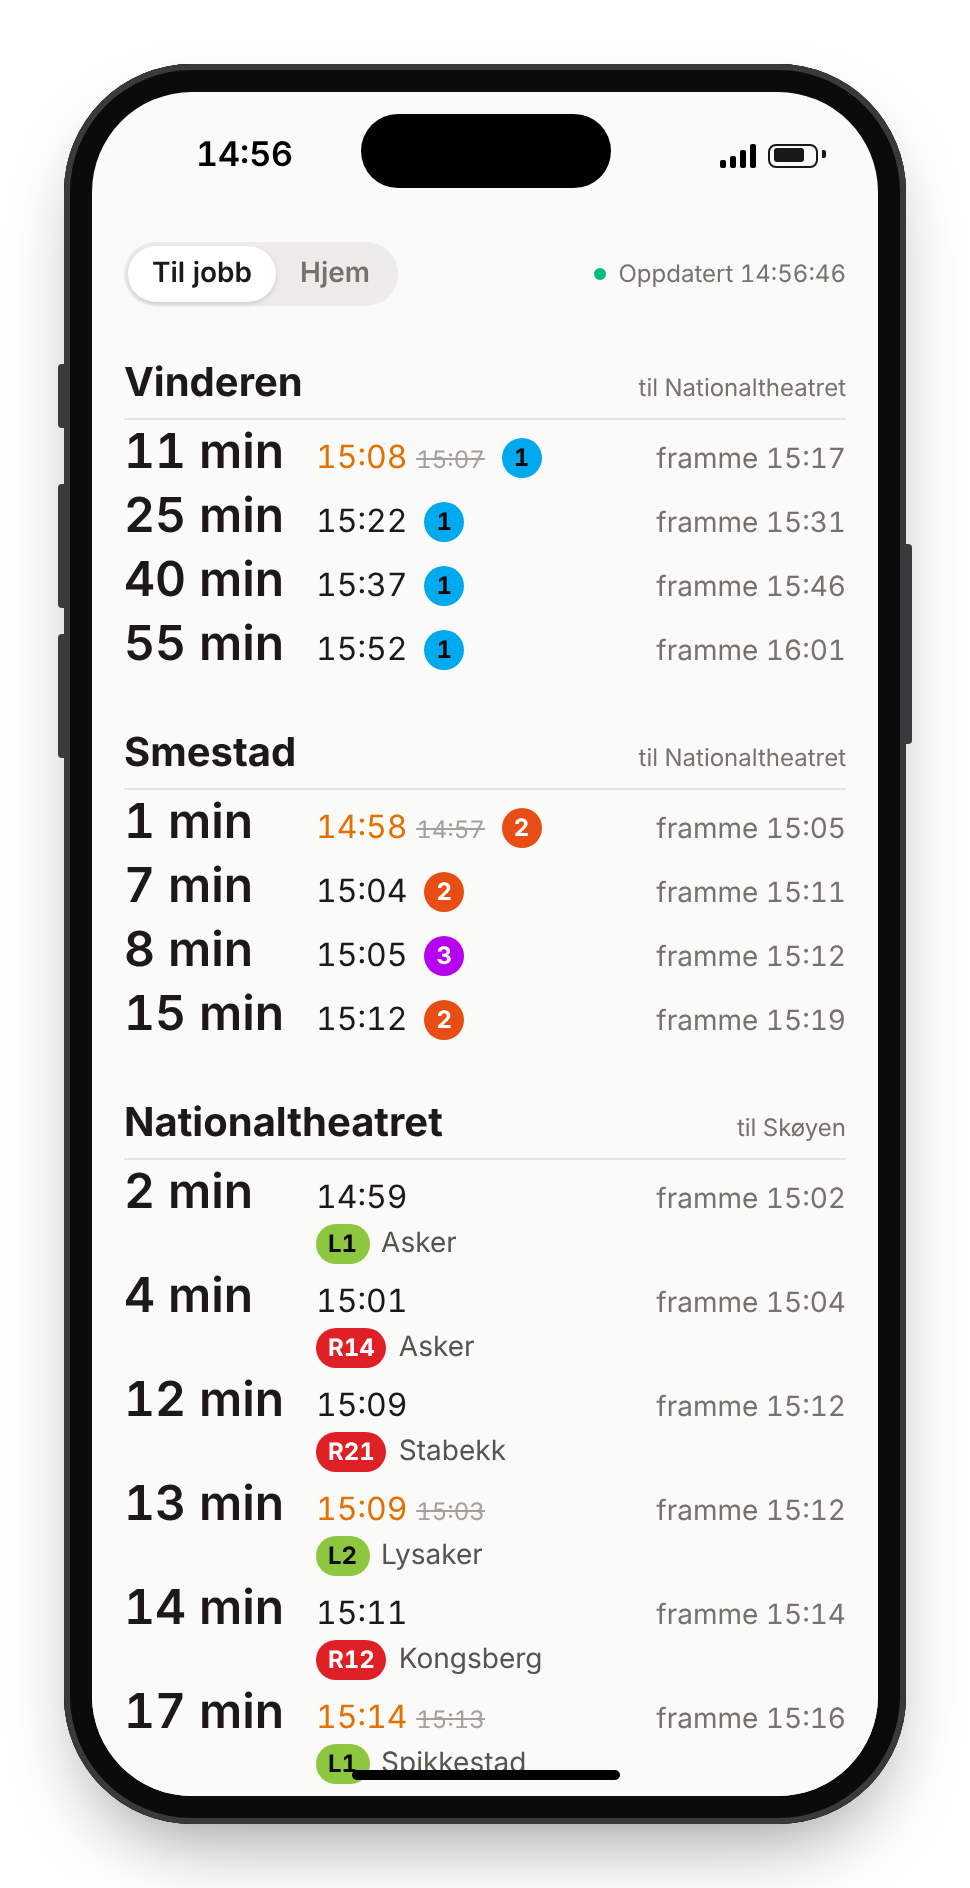
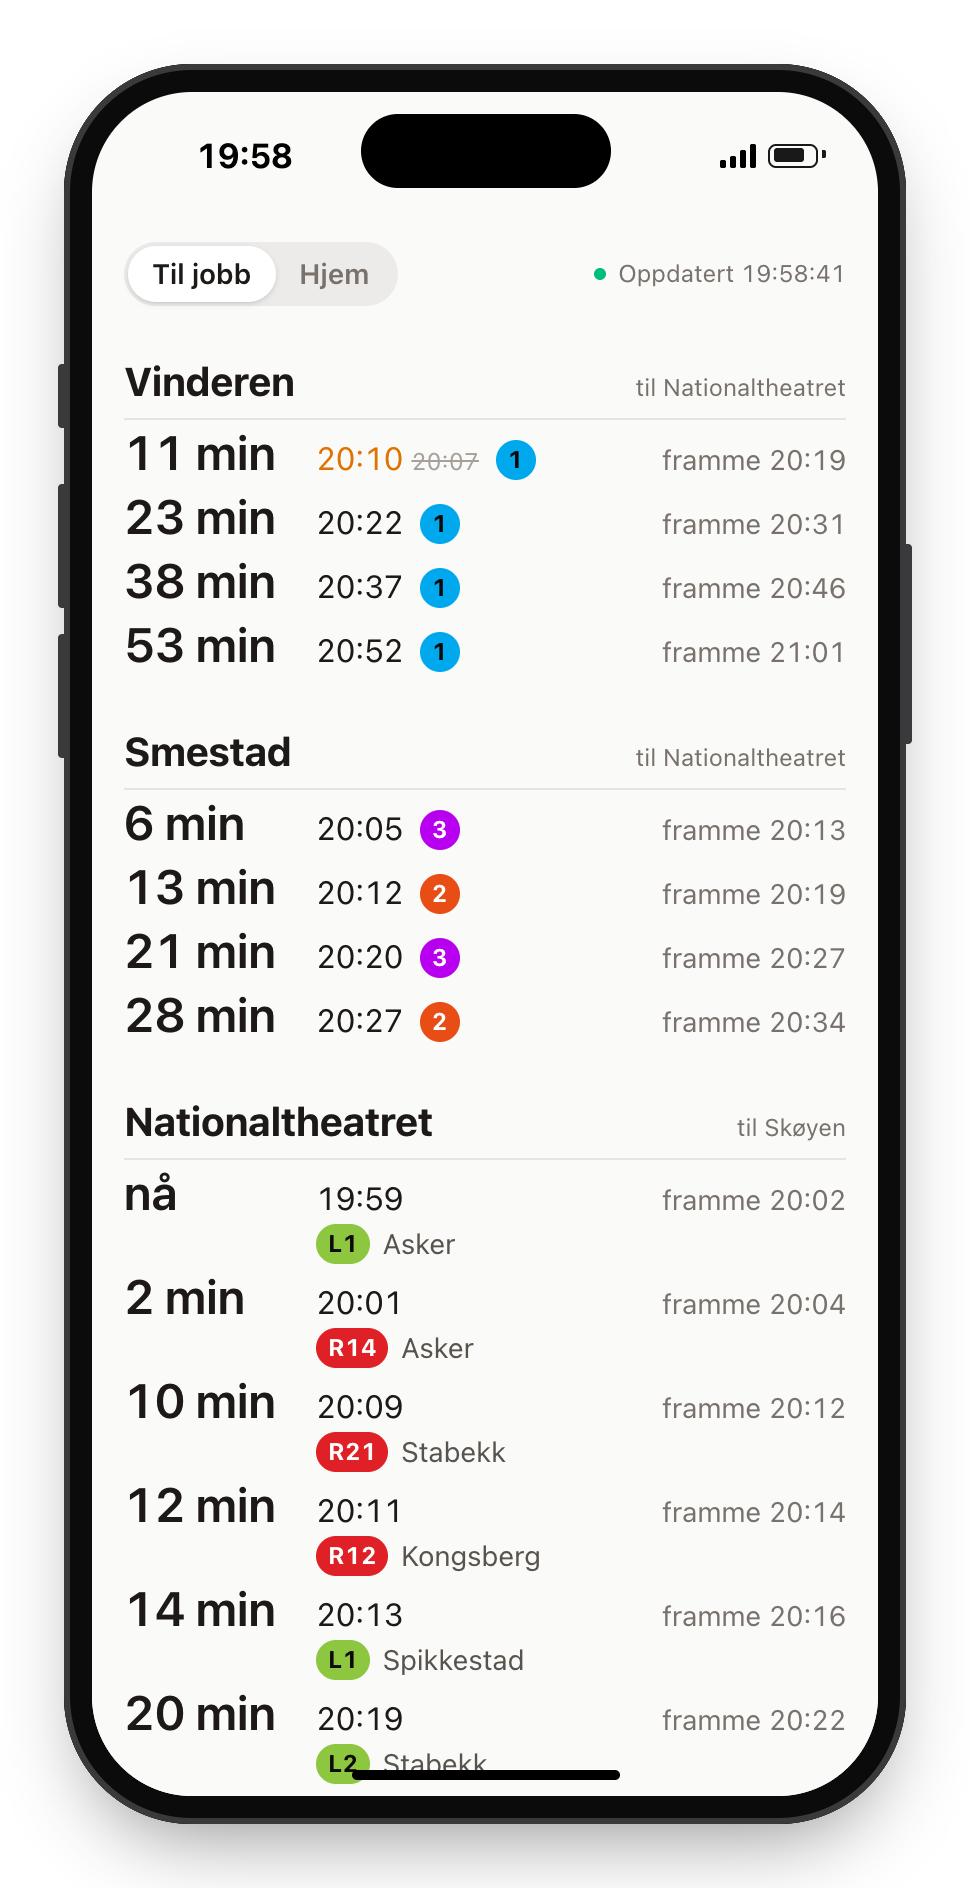
feat: let one board go to several destinations
A station is one board, even when more than one place will do. `to` can
now be a list: departures to any of them share the board, sorted by
departure, each with its arrival at the first of them it stops at. The
heading reads "til A / B".

The example config puts the two metro boards home from Nationaltheatret
into one, and the README text and screenshots are updated.

diff --git a/src/board.test.ts b/src/board.test.ts
@@ -39,7 +39,7 @@ describe("parseCalls", () => {
         call("2026-11-17T07:40:00+01:00", [next(OTHER, "2026-11-17T07:42:00+01:00")]), // wrong direction
       ],
       HERE,
-      DEST,
+      [DEST],
     );
     expect(deps).toHaveLength(1);
     expect(deps[0].destination).toBe("Sentrum");
@@ -51,7 +51,7 @@ describe("parseCalls", () => {
     const deps = parseCalls(
       [call("2026-11-17T16:03:00+01:00", [next({ id: DEST, parent: null }, "2026-11-17T16:09:00+01:00")])],
       HERE,
-      DEST,
+      [DEST],
     );
     expect(deps).toHaveLength(1);
   });
@@ -66,7 +66,7 @@ describe("parseCalls", () => {
         }),
       ],
       HERE,
-      DEST,
+      [DEST],
     );
     expect(deps.map((d) => [clock(d.expected), d.cancelled])).toEqual([["16:07", true]]);
   });
@@ -78,7 +78,7 @@ describe("parseCalls", () => {
         call("2026-11-17T07:46:00+01:00", [next(DEST_METRO, "2026-11-17T07:57:00+01:00")]),
       ],
       HERE,
-      DEST,
+      [DEST],
     );
     expect(deps.map((d) => clock(d.expected))).toEqual(["07:46", "07:50"]);
   });
@@ -97,7 +97,7 @@ describe("parseCalls", () => {
         call("2026-11-17T08:06:00+01:00", [next(between, "2026-11-17T08:09:00+01:00")]), // ends before
       ],
       HERE,
-      WORK,
+      [WORK],
     );
     expect(deps.map((d) => [d.line, d.destination, clock(d.expected), clock(d.arrival)])).toEqual([
       ["L1", "Vestby", "08:04", "08:11"],
@@ -115,9 +115,32 @@ describe("parseCalls", () => {
         call("2026-11-17T15:29:00+01:00", [next(DEST_METRO, "2026-11-17T15:40:00+01:00")], ring),
       ],
       HERE,
-      DEST,
+      [DEST],
     );
     expect(deps.map((d) => [clock(d.expected), clock(d.arrival)])).toEqual([["15:29", "15:40"]]);
+  });
+
+  it("with several destinations: departures to any of them, in one list, arriving at the first it stops at", () => {
+    const a = { id: "NSR:StopPlace:1100", parent: null };
+    const b = { id: "NSR:StopPlace:1200", parent: null };
+    const four = { serviceJourney: { id: "four", line: { publicCode: "4" } } };
+    const deps = parseCalls(
+      [
+        call("2026-11-17T17:03:00+01:00", [next(OTHER, "2026-11-17T17:10:00+01:00"), next(b, "2026-11-17T17:19:00+01:00")], four),
+        call("2026-11-17T16:59:00+01:00", [next(a, "2026-11-17T17:10:00+01:00")]),
+        call("2026-11-17T17:01:00+01:00", [next(OTHER, "2026-11-17T17:04:00+01:00")]), // neither
+        call("2026-11-17T17:05:00+01:00", [next(a, "2026-11-17T17:12:00+01:00", { forAlighting: false }), next(b, "2026-11-17T17:20:00+01:00")]), // skips a
+        call("2026-11-17T17:07:00+01:00", [next(a, "2026-11-17T17:15:00+01:00"), next(b, "2026-11-17T17:25:00+01:00")]), // both
+      ],
+      HERE,
+      [a.id, b.id],
+    );
+    expect(deps.map((d) => [clock(d.expected), d.line, clock(d.arrival)])).toEqual([
+      ["16:59", "5", "17:10"],
+      ["17:03", "4", "17:19"],
+      ["17:05", "5", "17:20"],
+      ["17:07", "5", "17:15"],
+    ]);
   });
 });
 
@@ -212,6 +235,12 @@ describe("buildQuery", () => {
     expect(q).toContain(`q0: stopPlace(id: "NSR:StopPlace:3000") { estimatedCalls(numberOfDepartures: 100, numberOfDeparturesPerLineAndDestinationDisplay: ${PER_LINE},`);
     expect(q).toContain(`q1: stopPlace(id: "NSR:StopPlace:4000") { estimatedCalls(numberOfDepartures: 20,`);
   });
+
+  it("always gives a board its destinations as a list", () => {
+    expect(stops[0].to).toEqual([{ name: "C", stopId: DEST }]);
+    const [both] = toStops([{ ...stops[0], to: [{ name: "C", stopId: DEST }, { name: "D", stopId: "NSR:StopPlace:5000" }] }]);
+    expect(both.to.map((t) => t.name)).toEqual(["C", "D"]);
+  });
 });
 
 describe("validateConfig", () => {
@@ -229,6 +258,13 @@ describe("validateConfig", () => {
     expect(() => validateConfig({ ...valid, stops: [{ ...valid.stops[0], stopId: "123" }] })).toThrow("stops[0].stopId");
     expect(() => validateConfig({ ...valid, stops: [{ ...valid.stops[0], mode: "bus" }] })).toThrow("stops[0].mode");
     expect(() => validateConfig({ ...valid, stops: [{ ...valid.stops[0], to: undefined }] })).toThrow("stops[0].to");
+    expect(() => validateConfig({ ...valid, stops: [{ ...valid.stops[0], to: [] }] })).toThrow("stops[0].to");
+    expect(() => validateConfig({ ...valid, stops: [{ ...valid.stops[0], to: [{ name: "B", stopId: "1" }] }] })).toThrow("stops[0].to");
+  });
+
+  it("accepts a list of destinations", () => {
+    const to = [{ name: "Sentrum", stopId: DEST }, { name: "B", stopId: "NSR:StopPlace:1100" }];
+    expect(validateConfig({ ...valid, stops: [{ ...valid.stops[0], to }] }).stops[0].to).toEqual(to);
   });
 });
 

diff --git a/src/entur.ts b/src/entur.ts
@@ -57,7 +57,8 @@ export function toStops(stops: StopConfig[]): Stop[] {
   return stops.map((s, i) => {
     const same = JSON.stringify([s.stopId, s.mode, [...(s.excludeAuthorities ?? [])].sort()]);
     if (!aliases.has(same)) aliases.set(same, `q${aliases.size}`);
-    return { ...s, key: `s${i}`, query: aliases.get(same)!, fetch: FETCH[s.mode] };
+    const to = Array.isArray(s.to) ? s.to : [s.to];
+    return { ...s, to, key: `s${i}`, query: aliases.get(same)!, fetch: FETCH[s.mode] };
   });
 }
 
@@ -86,18 +87,20 @@ function isAt(call: RawNextCall, stopId: string): boolean {
 }
 
 /**
- * Keeps only departures from `fromId` that later call at `toId` (= the right direction).
- * A departure that comes back to `fromId` before reaching `toId` (a metro going round the ring)
- * is left out: the same train is listed again for its next pass, and gets there just as soon.
+ * Keeps only departures from `fromId` that later stop at one of `toIds` (= the right direction),
+ * with the arrival at the first of them. A departure that comes back to `fromId` before that
+ * (a metro going round the ring) is left out: the same train is listed again for its next
+ * pass, and gets there just as soon.
  */
-export function parseCalls(calls: RawCall[], fromId: string, toId: string): Departure[] {
+export function parseCalls(calls: RawCall[], fromId: string, toIds: string[]): Departure[] {
   const out: Departure[] = [];
   for (const c of calls) {
     const next = c.serviceJourneyEstimatedCalls?.next ?? [];
-    const dest = next.find((n) => isAt(n, toId) || isAt(n, fromId));
-    if (!dest || !isAt(dest, toId)) continue;
-    // Running, but skips the destination: not relevant.
-    if (!c.cancellation && (dest.cancellation || !dest.forAlighting)) continue;
+    const back = next.findIndex((n) => isAt(n, fromId));
+    const ahead = (back === -1 ? next : next.slice(0, back)).filter((n) => toIds.some((id) => isAt(n, id)));
+    // Running: the first destination it actually stops at, if any. Cancelled: shown anyway.
+    const dest = c.cancellation ? ahead[0] : ahead.find((n) => !n.cancellation && n.forAlighting);
+    if (!dest) continue;
     out.push({
       id: `${c.serviceJourney.id}@${c.date}`,
       line: c.serviceJourney.line.publicCode ?? "",
@@ -125,6 +128,9 @@ export async function fetchDepartures(stops: Stop[], signal: AbortSignal): Promi
   };
   if (json.errors?.length || !json.data) throw new Error(json.errors?.[0]?.message ?? "Empty response");
   const out: Record<string, Departure[]> = {};
-  for (const s of stops) out[s.key] = parseCalls(json.data[s.query]?.estimatedCalls ?? [], s.stopId, s.to.stopId);
+  for (const s of stops) {
+    const calls = json.data[s.query]?.estimatedCalls ?? [];
+    out[s.key] = parseCalls(calls, s.stopId, s.to.map((t) => t.stopId));
+  }
   return out;
 }

diff --git a/src/config-schema.ts b/src/config-schema.ts
@@ -17,8 +17,12 @@ export type StopConfig = {
    * work), "work" – from work. Only the trip you're on is shown.
    */
   group: Group;
-  /** Only departures that call here later are shown, with the arrival time here. */
-  to: Target;
+  /**
+   * Only departures that call here later are shown, with the arrival time here. Can be a list
+   * when more than one place will do: departures to any of them share the board, each with its
+   * arrival at the first of them it stops at.
+   */
+  to: Target | Target[];
   /** Operators to leave out, e.g. ["FLT:Authority:FLT"] (Flytoget). */
   excludeAuthorities?: string[];
 };
@@ -47,7 +51,10 @@ export function validateConfig(value: unknown): AppConfig {
     if (!STOP_ID.test(s.stopId ?? "")) fail(`stops[${i}].stopId must look like NSR:StopPlace:123`);
     if (s.mode !== "metro" && s.mode !== "rail") fail(`stops[${i}].mode must be "metro" or "rail"`);
     if (!GROUPS.includes(s.group)) fail(`stops[${i}].group must be "home" or "work"`);
-    if (!s.to?.name || !STOP_ID.test(s.to?.stopId ?? "")) fail(`stops[${i}].to needs name and stopId`);
+    const to = Array.isArray(s.to) ? s.to : [s.to];
+    if (to.length === 0 || to.some((t) => !t?.name || !STOP_ID.test(t?.stopId ?? ""))) {
+      fail(`stops[${i}].to needs name and stopId (or a list of them)`);
+    }
   });
   if (!Array.isArray(c.places)) fail("places must be a list");
   c.places.forEach((p, i) => {

diff --git a/src/config.ts b/src/config.ts
@@ -1,4 +1,4 @@
-import type { AppConfig, StopConfig } from "./config-schema";
+import type { AppConfig, StopConfig, Target } from "./config-schema";
 import { toStops } from "./entur";
 
 export type { Group } from "./config-schema";
@@ -7,7 +7,9 @@ export type { Group } from "./config-schema";
 declare const __BGS_CONFIG__: AppConfig;
 const config = __BGS_CONFIG__;
 
-export type Stop = StopConfig & {
+export type Stop = Omit<StopConfig, "to"> & {
+  /** Where departures must go, always as a list. */
+  to: Target[];
   /** Identifies the board. */
   key: string;
   /** GraphQL alias. Stops that need the same departures (same stop place and filters) share one. */

diff --git a/src/view.ts b/src/view.ts
@@ -76,7 +76,7 @@ function board(stop: Stop, deps: Departure[] | undefined, now: number): string {
   return `<section>
     <h2 class="flex items-baseline justify-between border-b border-stone-200 pb-1 dark:border-stone-800">
       <span class="text-xl font-bold">${esc(stop.name)}</span>
-      <span class="text-xs text-stone-500">til ${esc(stop.to.name)}</span>
+      <span class="text-xs text-stone-500">til ${esc(stop.to.map((t) => t.name).join(" / "))}</span>
     </h2>
     ${body}
   </section>`;

diff --git a/README.md b/README.md
@@ -6,7 +6,7 @@ there – no searching, no tapping.
 <p align="center">
   <img src="docs/screenshots/home-light.png" width="300" alt="The trip to work: the next metro departures from two nearby stations to Nationaltheatret, and the trains on from there, each with its arrival time">
   &nbsp;&nbsp;
-  <img src="docs/screenshots/work-dark.png" width="300" alt="The trip home, in dark mode: the next trains to Nationaltheatret, and the metro on from there to each of the two stations">
+  <img src="docs/screenshots/work-dark.png" width="300" alt="The trip home, in dark mode: the next trains to Nationaltheatret, and the metro on from there to either of the two stations, in one list">
 </p>
 
 - A few configured stops, each showing only departures that go to its **destination** – with
@@ -52,7 +52,9 @@ Your stops are never committed. The build reads the config from, in order:
 Find stop place ids with Entur's geocoder, e.g.
 `https://api.entur.io/geocoder/v1/autocomplete?text=Skøyen&layers=venue`. `mode` is `metro` or
 `rail`; `group` is the trip the stop is part of, `home` (from home) or `work` (from work); `to`
-is where you're going from that stop. See `config.example.json` and `src/config-schema.ts`.
+is where you're going from that stop – or a list of places when more than one will do (say, two
+stations near home): departures to any of them then share one board, each with its arrival at
+the first of them it stops at. See `config.example.json` and `src/config-schema.ts`.
 
 ## Local development
 
